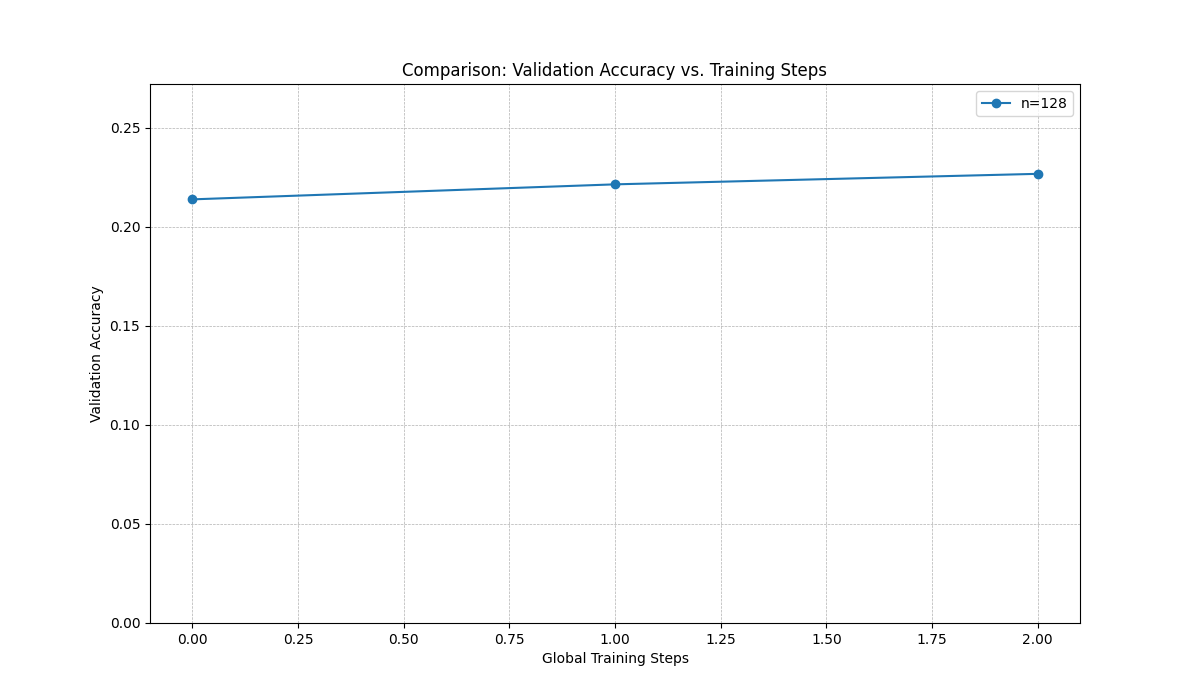
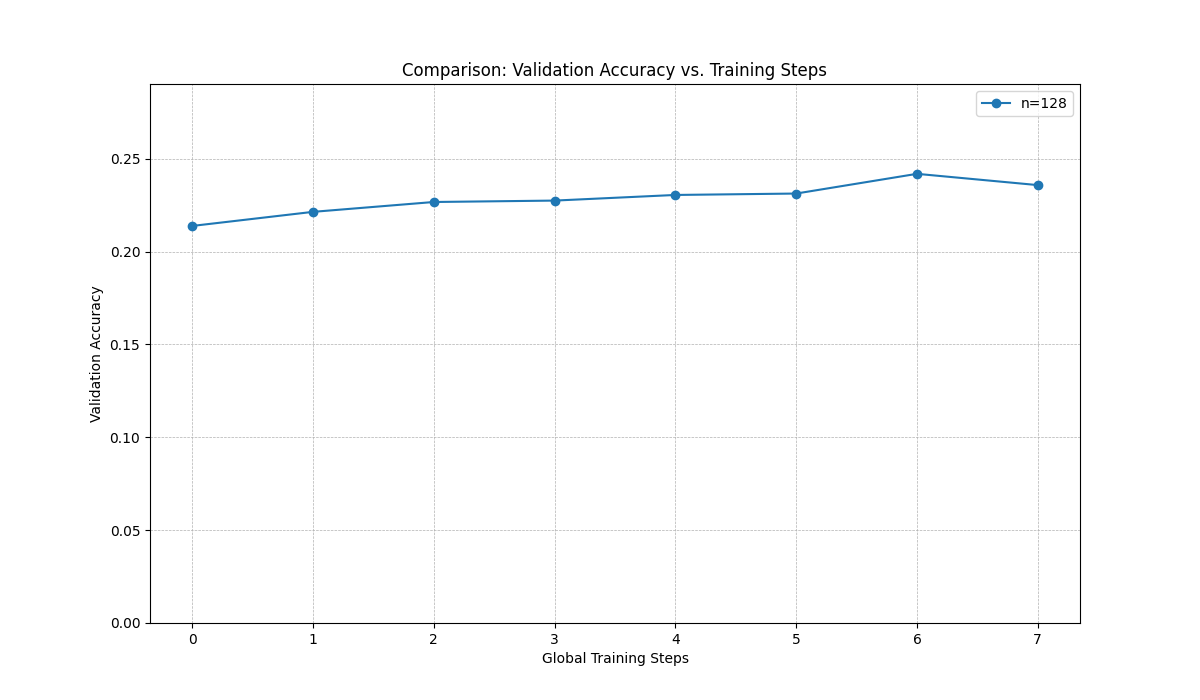
.

diff --git a/README.md b/README.md
@@ -109,17 +109,17 @@
 
 ### 3. GRPO (Group Relative Policy Optimization) 
 
-GRPO 是一种用于强化学习（RL）的策略梯度算法，专门针对语言模型微调而设计。它的核心思想是通过简化**优势估计**和引入 **PPO 式的裁剪机制**来提高训练的稳定性和效率。
+GRPO 是一种用于强化学习（RL）的策略梯度算法。它的核心思想是通过简化**优势估计**和引入 **PPO 式的裁剪机制**来提高训练的稳定性和效率。
 
 ---
 
 ### 核心思想 (Core Ideas)
 
-GRPO 解决了传统 RL 算法在语言模型上遇到的两个主要挑战：
+GRPO 解决了传统 RL 算法在 LLM 上遇到的两个主要挑战：
 
 #### 1. Group Normalized Advantage
 
-在传统的 RL 中，通常需要一个独立的价值网络 (value network) 作为基线来估计优势函数，这增加了训练的复杂性。GRPO 巧妙地解决了这个问题：
+在传统的 RL 中，通常需要一个独立的价值函数 (value network) 作为基线来估计优势函数，这增加了训练的复杂性。GRPO 巧妙地解决了这个问题：
 
 * **方法**: 对于一个输入问题 $q$，它会使用当前策略 $\pi_{\theta}$ 采样一组 $G$ 个不同的回答 $\{o^{(i)}\}_{i=1}^G$。
 * **优势估计**: 优势值 $A^{(i)}$ 不再通过价值网络计算，而是通过对这组回答的奖励 $r^{(i)}$ 进行**Group Normalized Advantage**来得到。
@@ -163,7 +163,18 @@ GRPO 的强大之处在于，它通过巧妙的优势估计和裁剪机制，使
 
 ---
 
-## 📊 实验与结果分析
+## 使用GRPO算法提高大语言模型在GSM8K数据集上的数学推理能力
+
+### 📊 实验与结果分析
+
+### 🎯 方法
+
+  * **模型**: `Qwen-2.5-Math-1.5B`
+  * **数据集**: GSM8K (一个包含 8500 个高质量、语言多样的数学应用题的数据集)
+  * **数据生成 (Rollout)**: 使用一个高效的推理引擎 (vLLM) 从策略模型 (Policy Model) 中为每个问题（prompt）生成多组候选答案。
+  * **奖励计算 (Reward Calculation)**: 奖励计算 (Reward Calculation)。
+  * **优势计算 (Advantage Calculation)**: 在每组候选答案内部进行奖励归一化（减去均值），计算出优势值 (advantage)。这是 GRPO 算法的核心，它通过组内对比来稳定训练过程。
+  * **模型更新 (Policy Update)**: 使用计算出的优势值，通过策略梯度方法更新模型参数。
 
 我们进行了一系列对比实验来验证 GRPO 算法不同组件的有效性。
 
